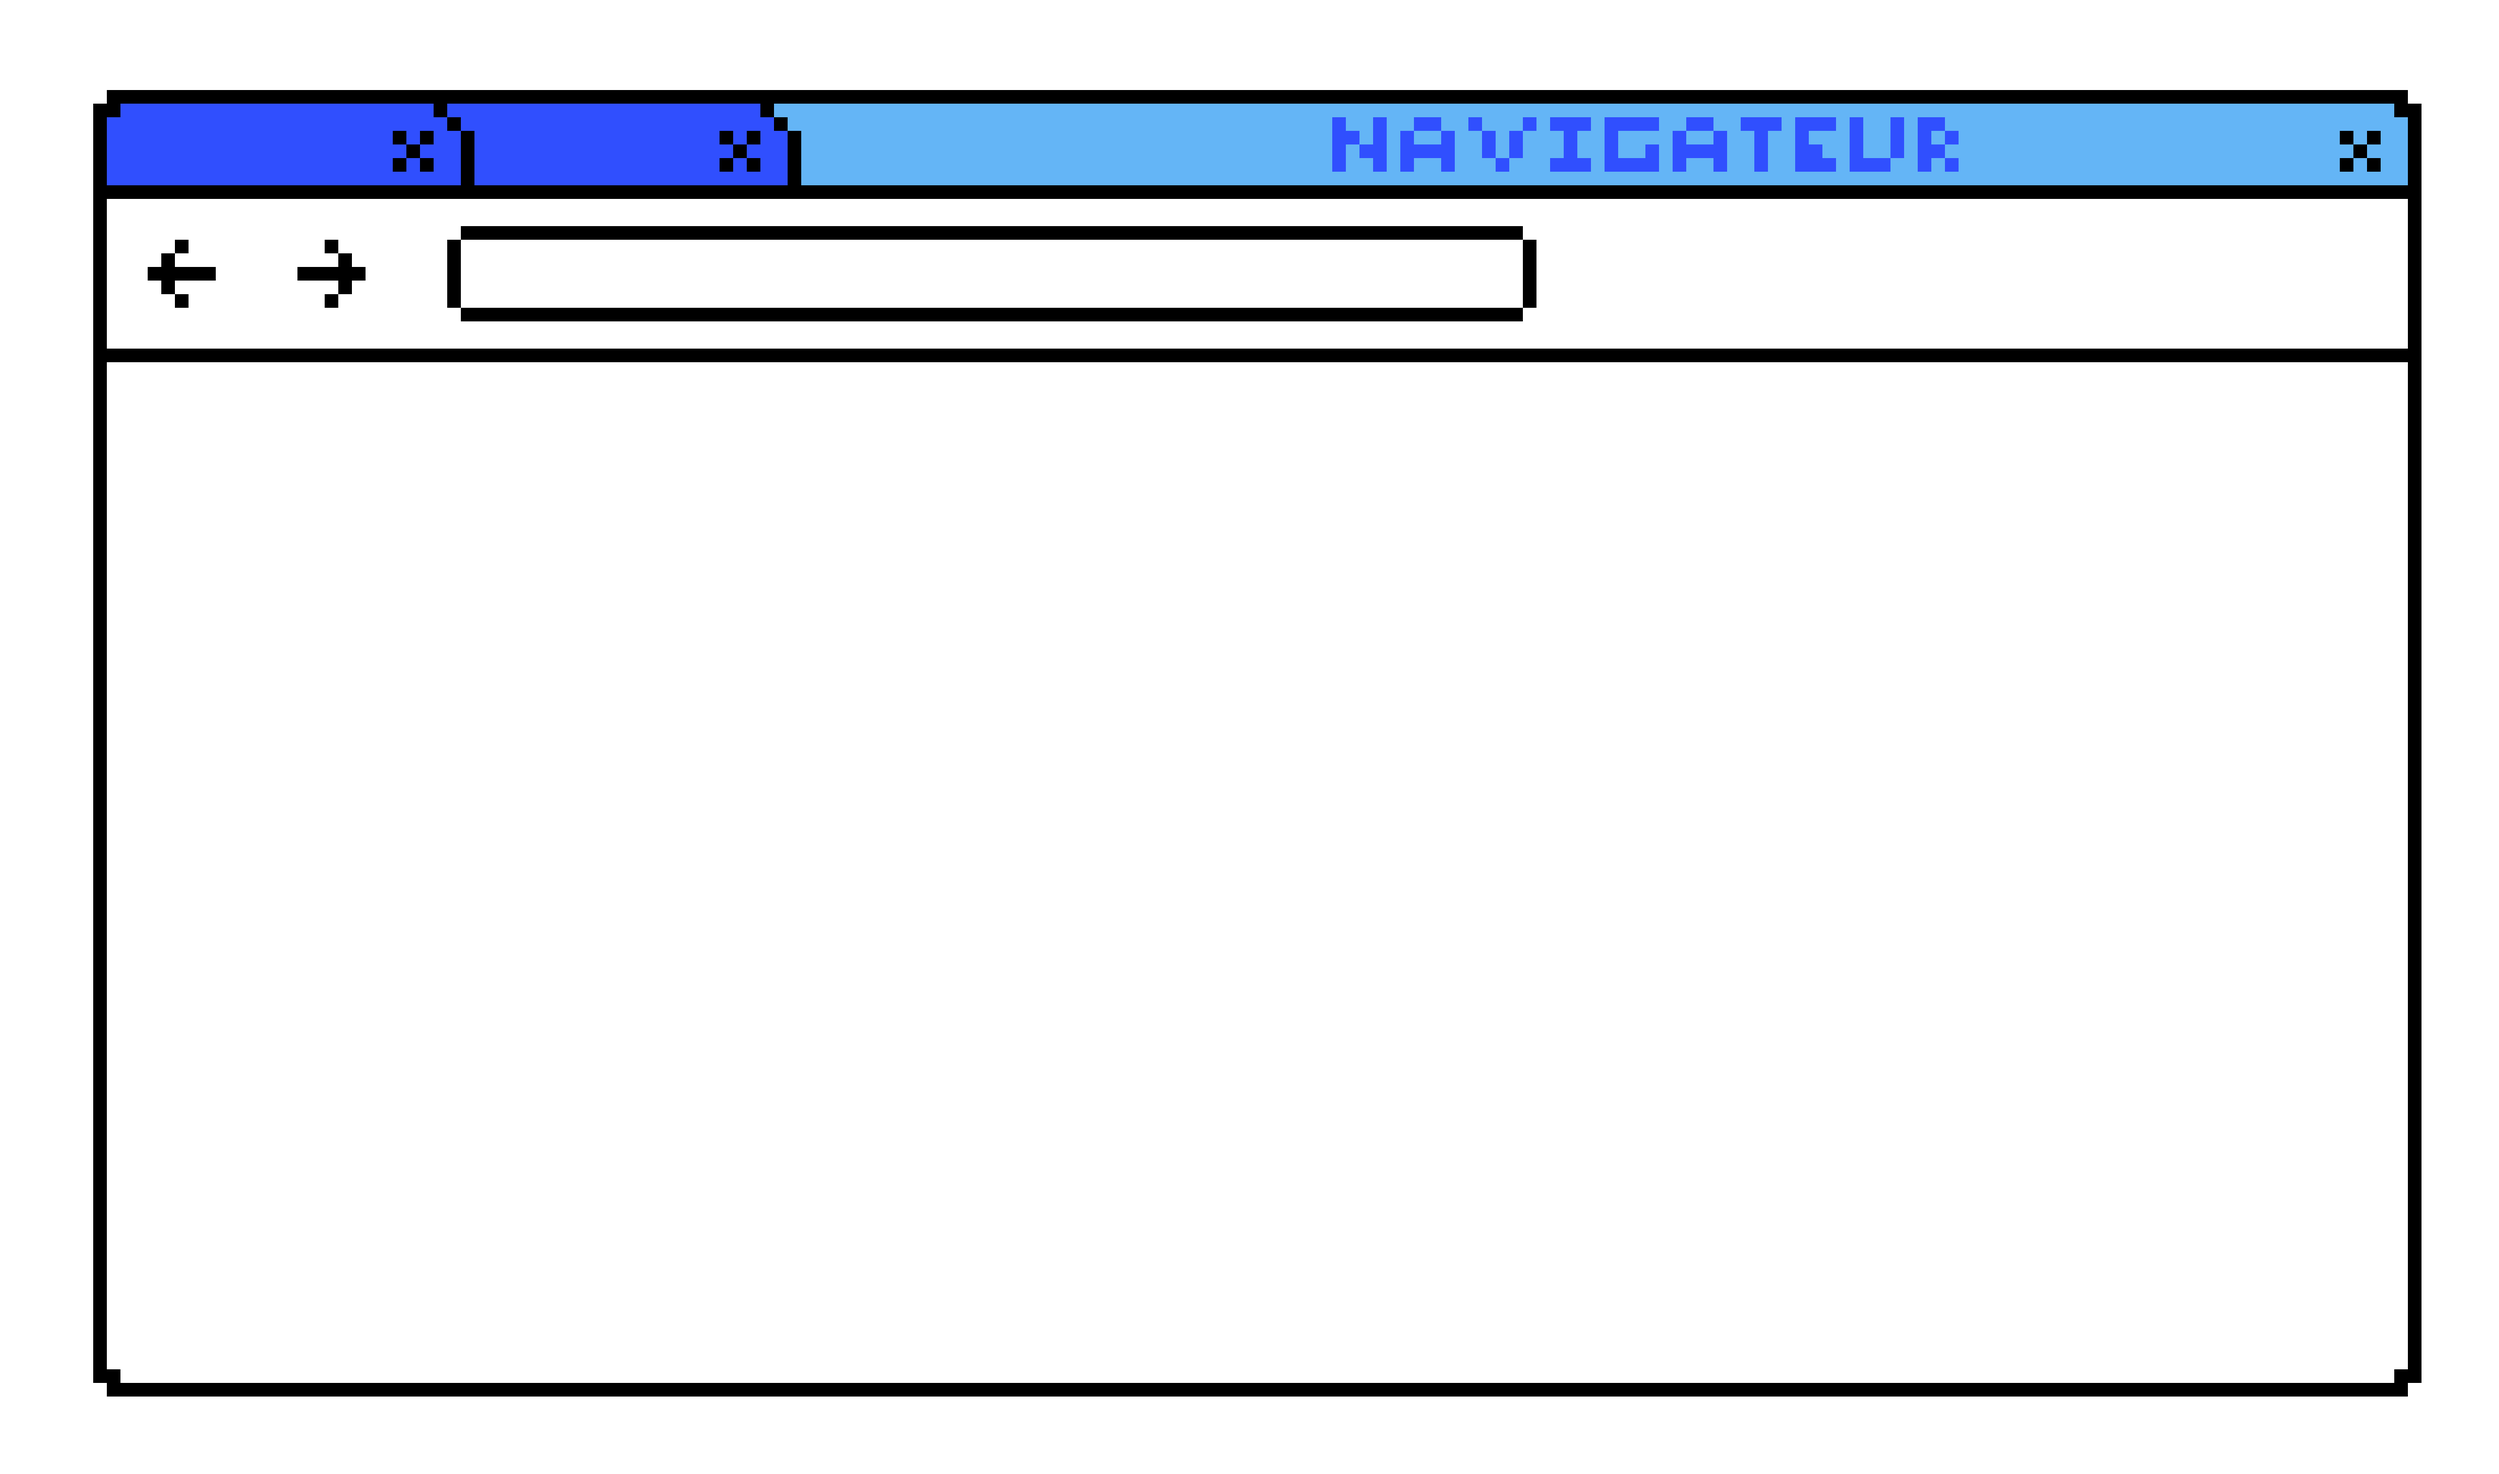
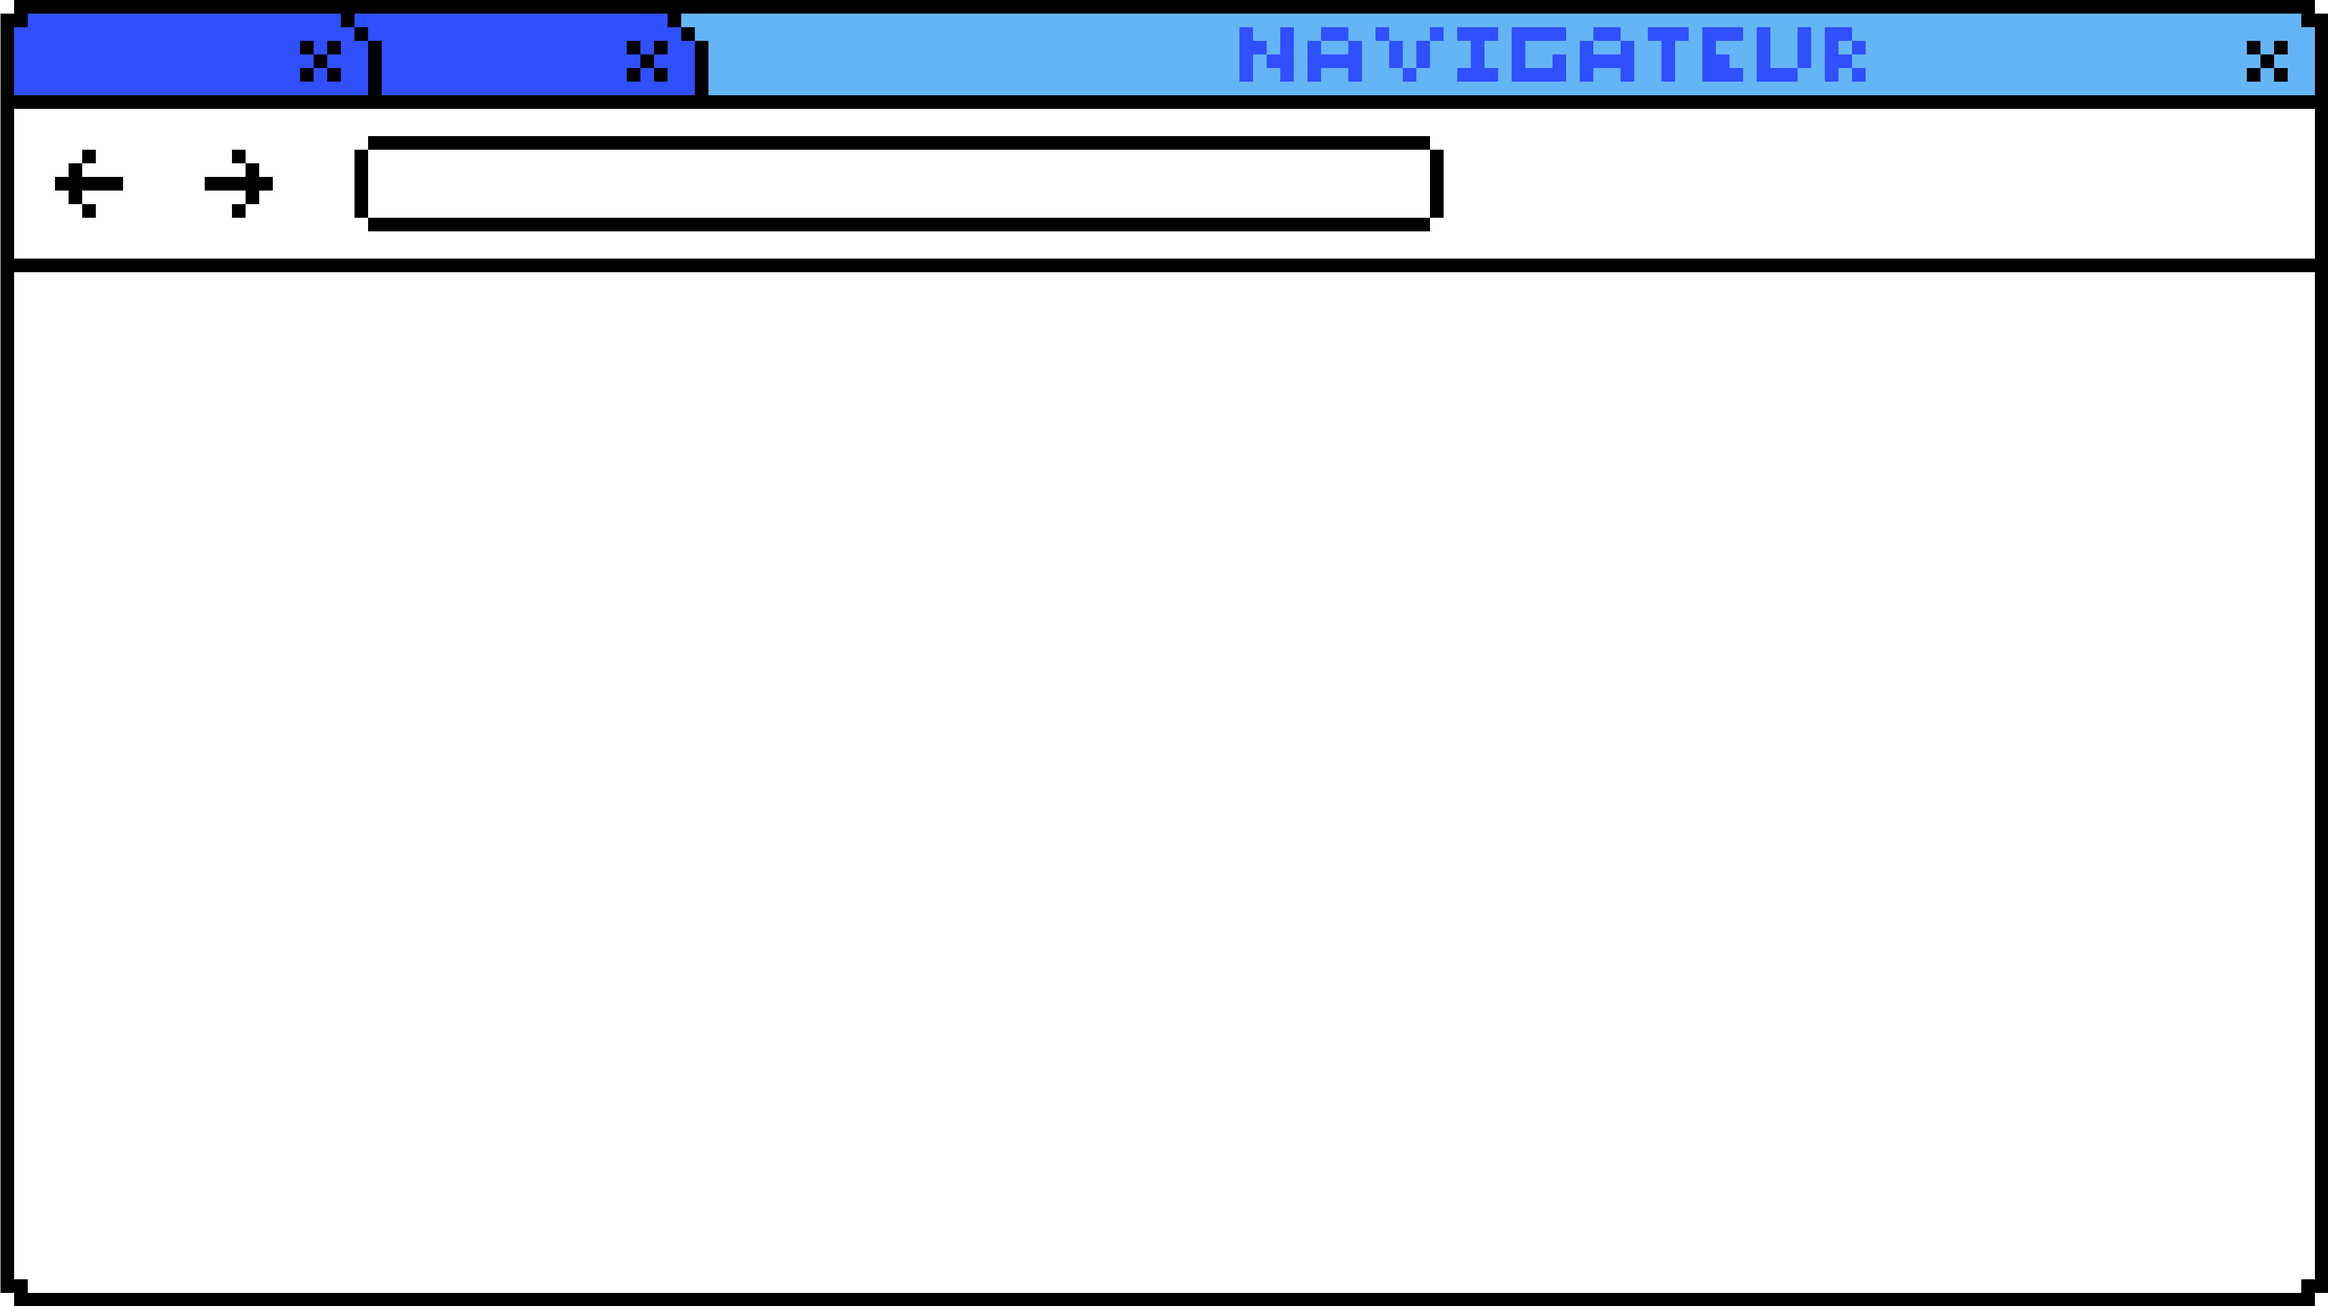
Ajout de chrome

Changed region(s): [[0.0, 0.0, 1.0, 1.0]]

diff --git a/css/game.css b/css/game.css
@@ -69,7 +69,7 @@
     background-repeat: no-repeat;
 }
 
-.chrome {
+.chromeicon {
     position: absolute;
     background: url('../img/chrome.png');
     border: none;
@@ -198,6 +198,81 @@ body {
     right: 0.5vh;
     position: absolute;
     top: 0.5vh;
+    border: none;
+    background: none;
+}
+
+.chrome{
+    position: absolute;
+    background: url('../img/Navigateur/navigateur.png');
+    border: none;
+    height: 80%;
+    width: 89%;
+    object-fit: cover;
+    top: 4%;
+    left: 9vh;
+    background-size: auto 100%;
+    background-repeat: no-repeat;
+}
+
+.amazoun{
+    position: absolute;
+    background: url('../img/Navigateur/acceuil_amazoun_v2.png');
+    border: none;
+    height: 83.6%;
+    width: 101%;
+    object-fit: cover;
+    top: 18.5%;
+    left: -1vh;
+    background-size: auto 100%;
+    background-repeat: no-repeat;
+}
+
+.crayon{
+    position: absolute;
+    background: url('../img/Navigateur/crayon.png');
+    border: none;
+    height: 21%;
+    width: 61%;
+    object-fit: cover;
+    top: 25%;
+    left: 8vh;
+    background-size: auto 100%;
+    background-repeat: no-repeat;
+}
+
+.amazounachat{
+    position: absolute;
+    background: url('../img/Navigateur/amazoun_v2.png');
+    border: none;
+    height: 84.5%;
+    width: 101%;
+    object-fit: cover;
+    top: 17.2%;
+    left: -1.2vh;
+    background-size: auto 100%;
+    background-repeat: no-repeat;
+}
+
+.achat{
+    position: absolute;
+    background: url('../img/Navigateur/bouton_achat.png');
+    border: none;
+    height: 14%;
+    width: 29%;
+    object-fit: cover;
+    top: 79%;
+    left: 57vh;
+    background-size: auto 100%;
+    background-repeat: no-repeat;
+}
+
+.chromeexit {
+    height: 3vh;
+    width: 3.5vh;
+    right: 0.8vh;
+    position: absolute;
+    top: 0.8vh;
     border: none;
     background: none;
 }

diff --git a/game.php b/game.php
@@ -49,9 +49,18 @@
         <button class="exitbutton"></button>
         <h2 id="mailcontent" class="mailcontent"></h2>
       </div>
+      <div class="chrome">
+        <div class="chromeexit"></div>
+        <div class="amazoun">
+          <div class="crayon"></div>
+        </div>
+        <div class="amazounachat">
+          <div class="achat"></div>
+        </div>
+      </div>
       <button class='veille'></button>
       <button class='mail'></button>
-      <button class='chrome'></button>
+      <button class='chromeicon'></button>
       <div class='horloge'></div>
     </div>
     <div class="flex">
